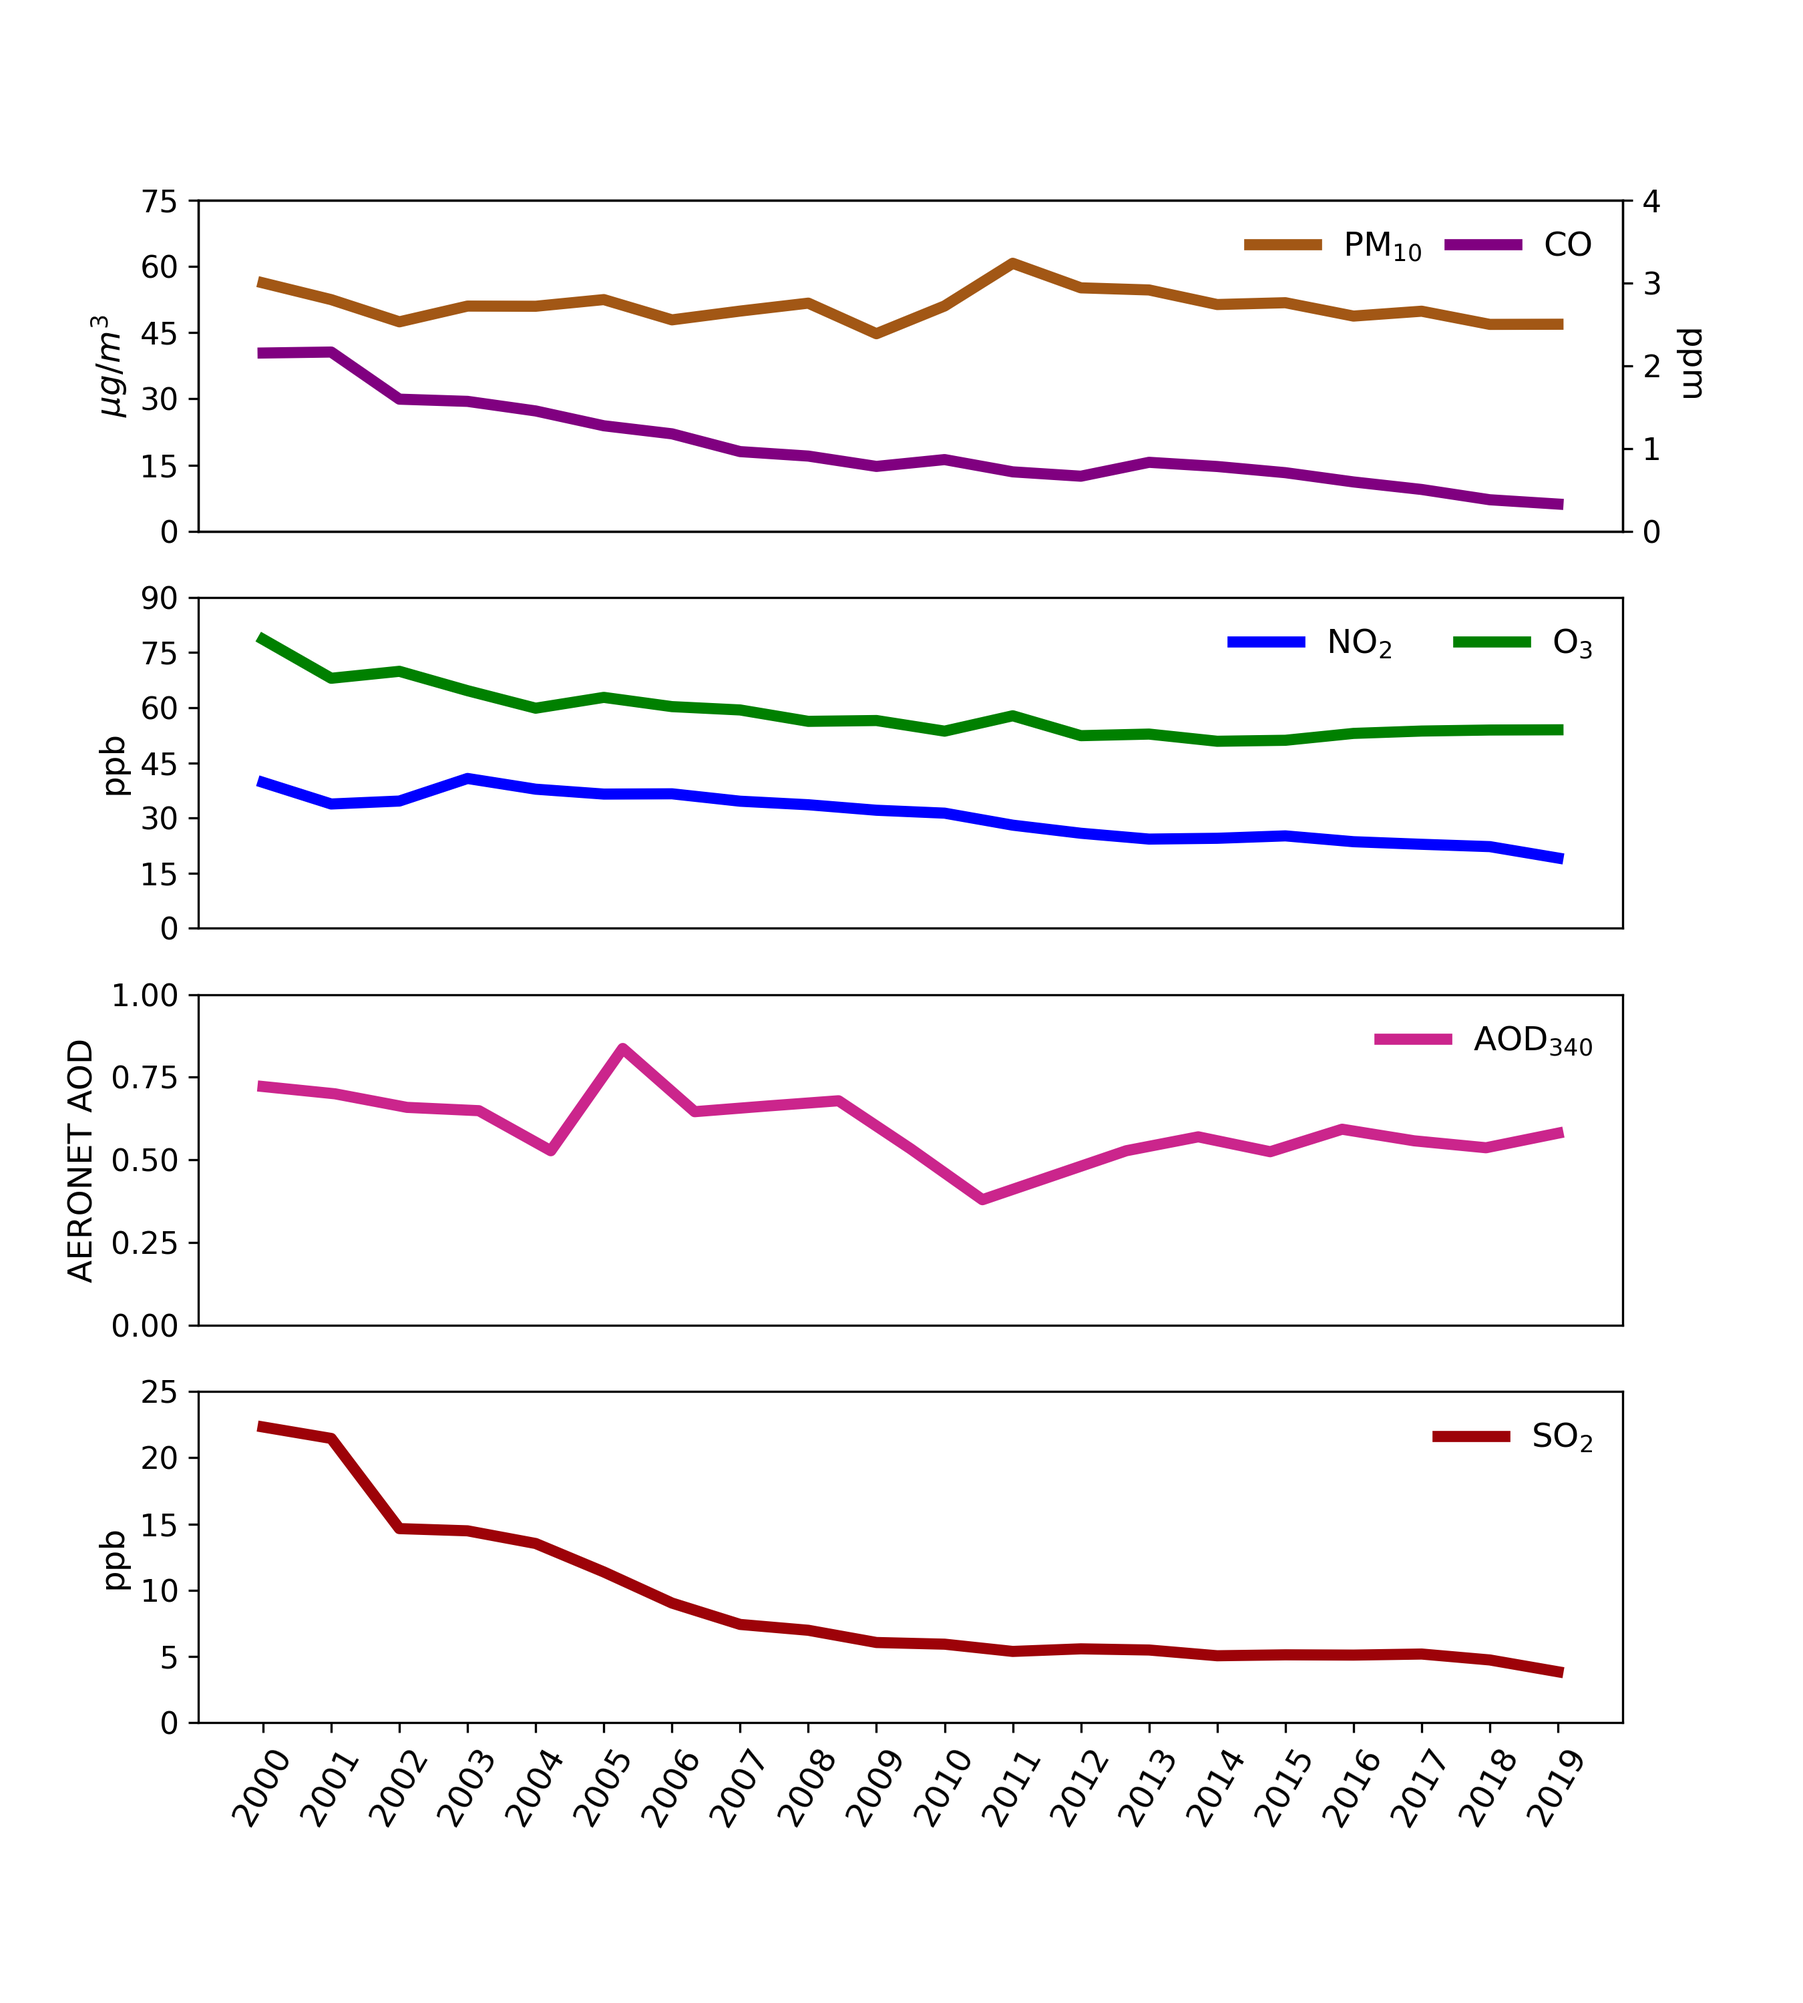
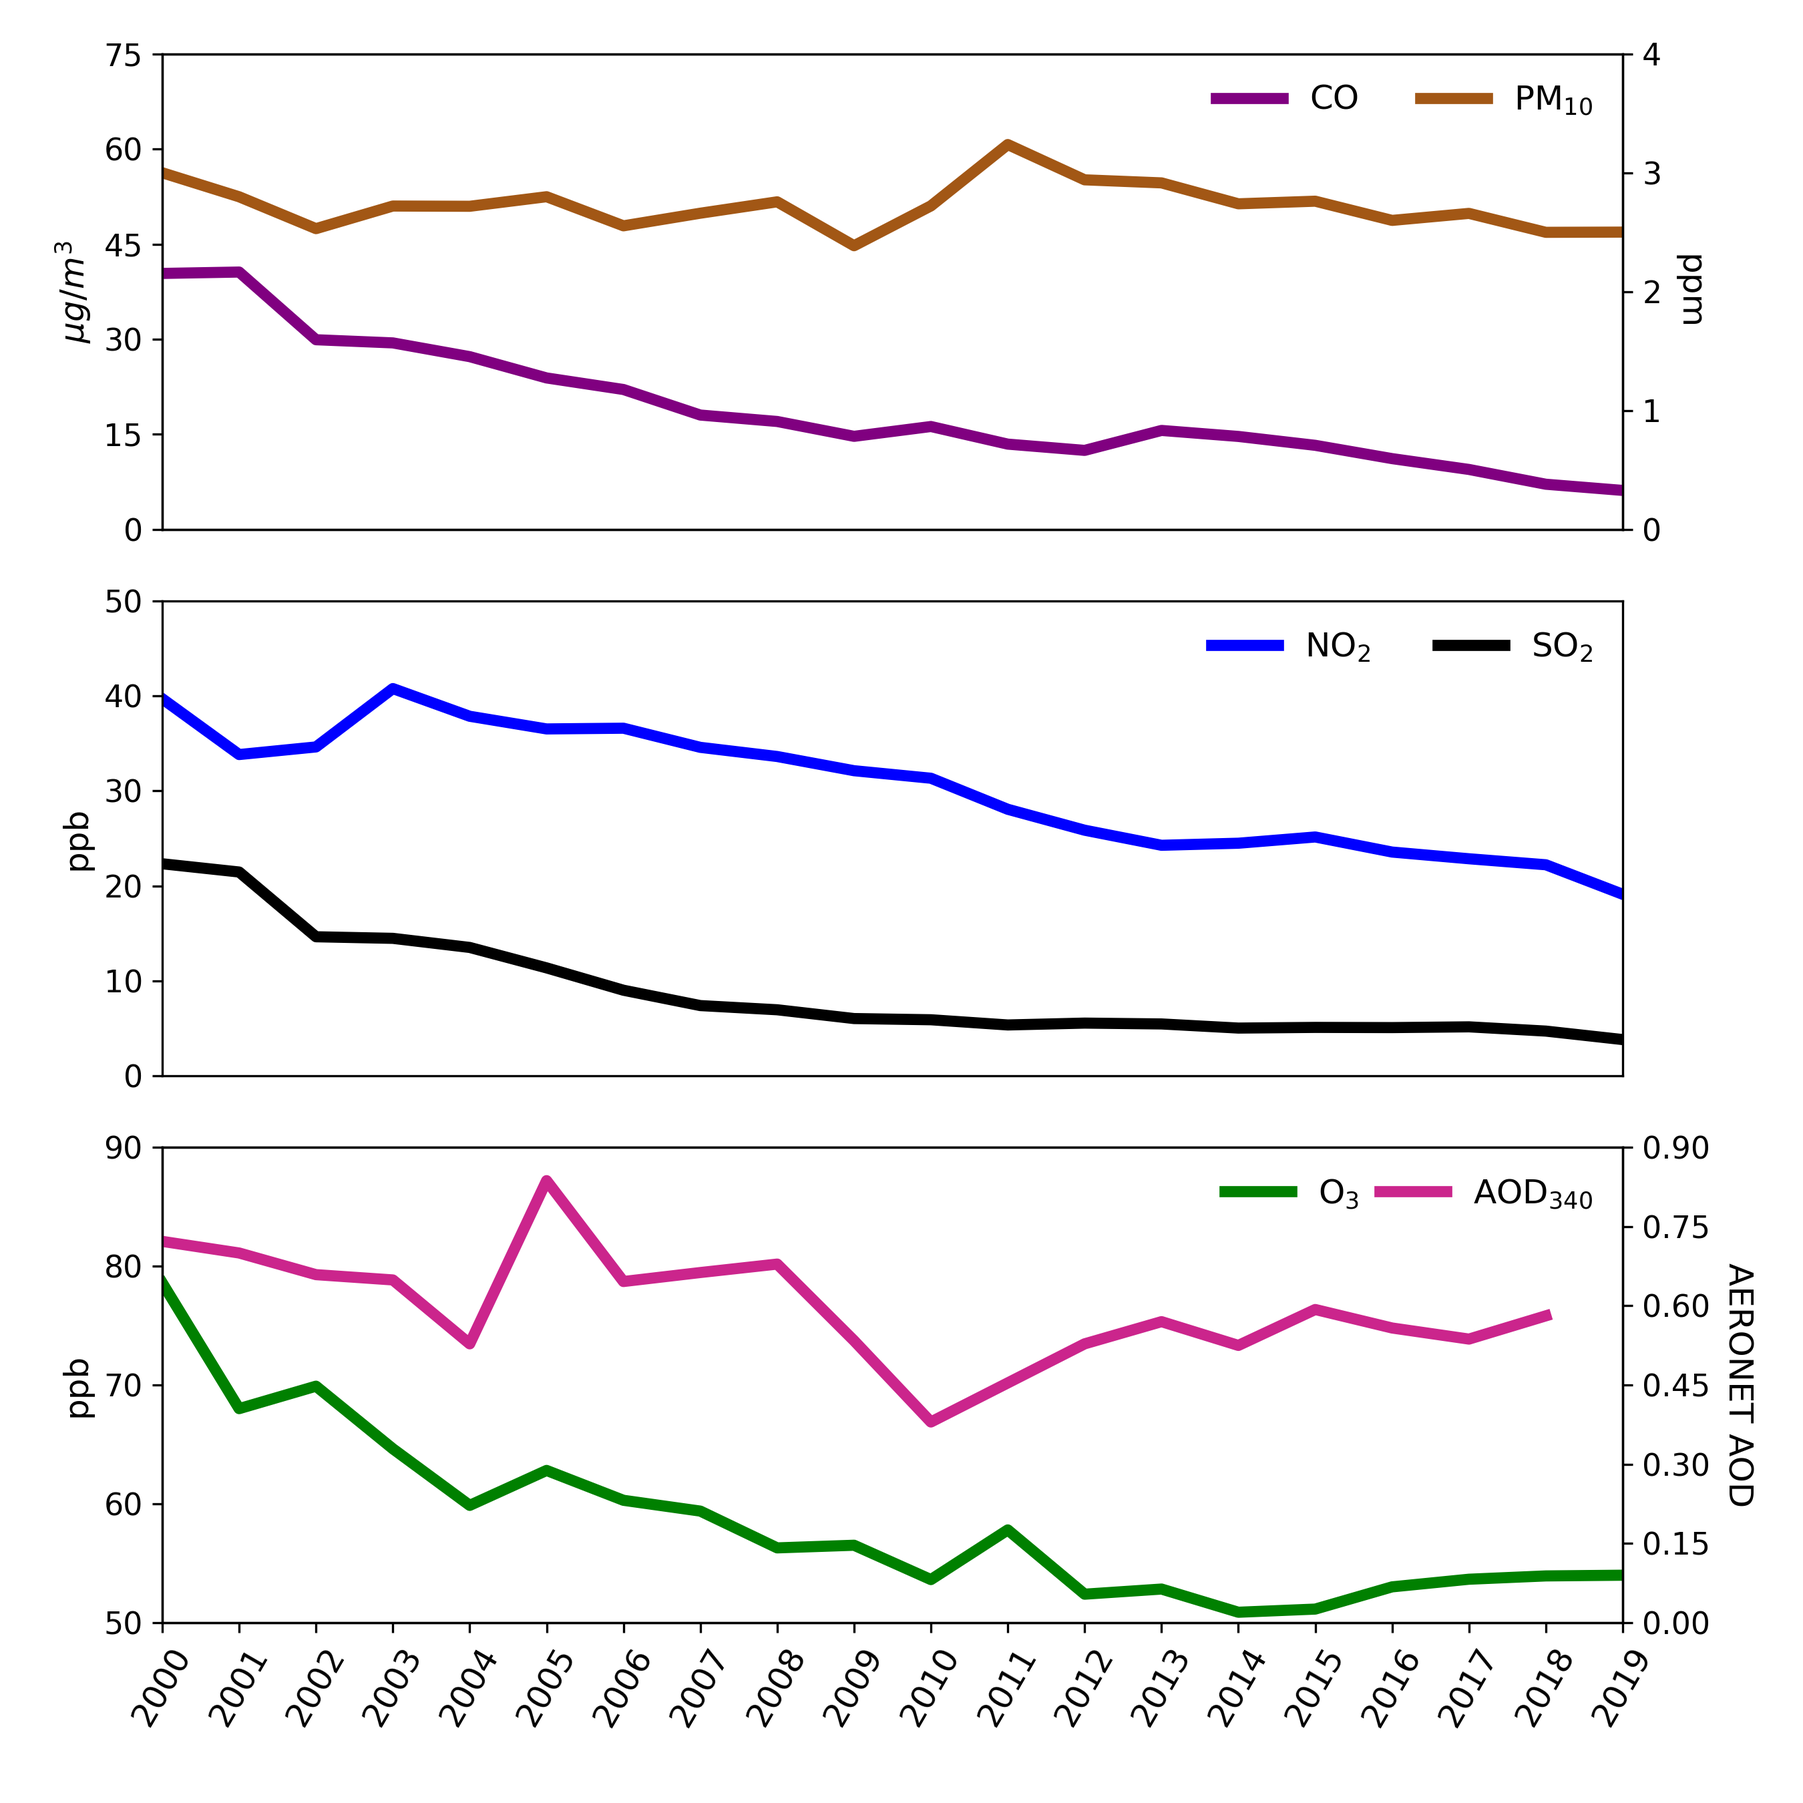
[ADD] Change graphics contaminante

diff --git a/2000-2019/Scripts/contGraphics.py b/2000-2019/Scripts/contGraphics.py
@@ -7,22 +7,26 @@ def promedio(data):
     return mean
 parameters=["PM10","CO","NO2","O3","AOD","SO2"]
 ticks=["PM$_{10}$","CO","NO$_2$","O$_3$","AOD$_{340}$","SO$_2$"]
-colors=["#A25715","purple","blue","green","#CB258C","#9d0208"]
+colors=["#A25715","purple","blue","green","#CB258C","black"]
 titles=["$\mu g/m^3$","ppm","ppb","ppb","AERONET AOD","ppb"]
-lim_list=[75,4,90,90,1,25]
-delta_list=[15,1,15,15,0.25,5]
+lim_list_sup=[75,4,50,90,0.8,50]
+lim_list_inf=[0,0,0,50,0,0]
+delta_list=[15,1,10,10,0.15,10]
+#lim_list_sup=[75,4,90,90,1,25]
+#delta_list=[15,1,15,15,0.25,5]
 dir,arc="../Archivos/","CDMX.csv"
 lw=4;font_size=12
 plt.rc('font', size=font_size) 
 plt.rc('xtick', labelsize=font_size)  
 plt.rc('ytick', labelsize=font_size-1) 
-fig,(ax1,ax3,ax4,ax5)=plt.subplots(4,figsize=(9,10))
-plt.subplots_adjust(top=0.9,bottom=0.14,left=0.11,right=0.9)
+fig,(ax1,ax3,ax4)=plt.subplots(3,figsize=(9,9))
+plt.subplots_adjust(top=0.97,bottom=0.1,left=0.09,right=0.9,hspace=0.15)
 ax2=ax1.twinx()
-axs=np.array([ax1,ax2,ax3,ax3,ax4,ax5])
-for parameter,ax,tick,color,title,lim,delta in zip(parameters,axs,ticks,colors,titles,lim_list,delta_list):
+ax5=ax4.twinx()
+axs=np.array([ax1,ax2,ax3,ax4,ax5,ax3])
+for parameter,ax,tick,color,title,lim_inf,lim_sup,delta in zip(parameters,axs,ticks,colors,titles,lim_list_inf,lim_list_sup,delta_list):
     label=np.arange(2000,2020);x=np.arange(20)
-    if ax!=ax4:
+    if ax!=ax5:
         file=dir+parameter+"_"+arc
         data=np.loadtxt(file,delimiter=",")
         mean=promedio(data)
@@ -35,21 +39,23 @@ for parameter,ax,tick,color,title,lim,delta in zip(parameters,axs,ticks,colors,t
     prom=round(np.mean(mean),3)
     print(parameter,round(prom,1),round(fit[0]*100/prom,1),np.round(fit,2))
     ax.plot(label,mean,ls="-",label=tick,color=color,linewidth=lw)
-    ax.set_ylim(0,lim)
-    if ax!=ax5:
+    ax.set_xlim(2000,2019)
+    ax.set_ylim(lim_inf,lim_sup)
+    yticks=np.arange(lim_inf,lim_sup+delta,delta)
+    ax.set_yticks(yticks)
+    if not(ax in [ax4,ax5]):
         ax.set_xticks([])
     else:
-        ax.set_xticks(label)
-        ax.set_xticklabels(label,rotation=60)
-    yticks=np.arange(0,lim+delta,delta)
-    ax.set_yticks(yticks)
-    if ax==ax2:
+        if ax==ax4:
+            ax.set_xticks(label)
+            ax.set_xticklabels(label,rotation=60)
+    if ax in [ax2,ax5]:
         ax.set_ylabel(title,rotation=-90,va="bottom")
     else:
         ax.set_ylabel(title)
-    if ax!=ax1:
-        ax.legend(frameon=False,ncol=2,loc="upper right")
+    if ax in [ax2,ax4]:
+        ax.legend(frameon=False,ncol=2,loc="best",bbox_to_anchor=(0.84, 1))
     else:
-        ax.legend(frameon=False,ncol=2,loc="best",bbox_to_anchor=(0.88, 1))
+        ax.legend(frameon=False,ncol=2,loc="upper right")
 plt.savefig("../Graficas/contCDMX.png",dpi=300)
-plt.show()
+#plt.show()

diff --git a/2000-2019/Scripts/cont.py b/2000-2019/Scripts/cont.py
@@ -5,11 +5,10 @@ import datetime
 hour_i,hour_f=11,14
 parameters=np.array(["CO","O3","NO2","PM10","SO2"],dtype=str)
 dir,sta_dir,arc="../Contaminantes/","../Datos/","CDMX.csv"
-stations,files=np.array(listdir(sta_dir),dtype=str),np.sort(listdir(dir))
-n_sta,n_param=np.size(stations),np.size(parameters)
+stations=np.array(listdir(sta_dir),dtype=str);files=np.sort(listdir(dir))
+n_param=np.size(parameters)
 info=np.zeros([n_param,365,20,2])
 for file in files:
-    print("Leyendo "+file)
     dates,stations_name,parameters_name,data_list=np.loadtxt(dir+file,skiprows=11,usecols=[0,1,2,3],delimiter=",",dtype=str,unpack=True)
     print("Analizando "+file)
     for date,station_name,parameter_name,data in zip(dates,stations_name,parameters_name,data_list):
